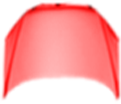
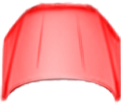
add gear info, change KM to km, change pic of hood open

diff --git a/qml/content/CentreInfo.qml b/qml/content/CentreInfo.qml
@@ -8,6 +8,8 @@ Rectangle {
     property real valueTrip: CarStatus.trip1 * 0.1
     property real valueTemp: CarStatus.outTemp
     property string valueTime: CarStatus.time
+    property int valueGear: CarStatus.gear
+    property int valueGearMode: CarStatus.gearMode
 
     // module dateTime
     Item {
@@ -80,12 +82,15 @@ Rectangle {
     Item {
         id: tripTotalMileage
 
-        Image {
+        Text {
             id: kMleft
             x: 723
-            y: 610
-            opacity: 1.0
-            source: "qrc:/images/images/tripTotalMileage/KMleft.png"
+            y: 601
+            color: "black"
+            font.pixelSize: 24
+            font.italic: true
+            text: "km"
+            font.family: fontName.fontCurrent
         }
         Text {
             id: numTrip
@@ -99,12 +104,15 @@ Rectangle {
             font.family: fontName.fontCurrent
         }
 
-        Image {
+        Text {
             id: kMright
             x: 1228
-            y: 610
-            opacity: 1.0
-            source: "qrc:/images/images/tripTotalMileage/KMright.png"
+            y: 601
+            color: "black"
+            font.pixelSize: 24
+            font.italic: true
+            text: "km"
+            font.family: fontName.fontCurrent
         }
         Text {
             id: numTotalMileage
@@ -124,6 +132,47 @@ Rectangle {
             y: 634
             opacity: 1.0
             source: "qrc:/images/images/tripTotalMileage/tripTotalMileageOut.png"
+        }
+    }
+
+    // module gear
+    Item {
+        id: gear
+
+        Image {
+            id: gearOutline
+            x: 839
+            y: 587
+            opacity: 1.0
+            source: "qrc:/images/images/gear/gearOutline.png"
+        }
+        Image {
+            id: gearD
+            x: 885
+            y: 535
+            opacity: valueGearMode == 0x01 ? 1.0 : 0.0
+            source: "qrc:/images/images/gear/gearD.png"
+        }
+        Image {
+            id: gearN
+            x: 884
+            y: 536
+            opacity: (valueGearMode == 0 && valueGear == 0x0e) ? 1.0 : 0.0
+            source: "qrc:/images/images/gear/gearN.png"
+        }
+        Image {
+            id: gearR
+            x: 887
+            y: 535
+            opacity: (valueGearMode == 0 && valueGear == 0x0f) ? 1.0 : 0.0
+            source: "qrc:/images/images/gear/gearR.png"
+        }
+        Image {
+            id: gearP
+            x: 888
+            y: 535
+            opacity: (valueGearMode == 0 && valueGear == 0) ? 1.0 : 0.0
+            source: "qrc:/images/images/gear/gearP.png"
         }
     }
 

diff --git a/qml/content/CarDoorPanel.qml b/qml/content/CarDoorPanel.qml
@@ -60,8 +60,8 @@ Rectangle {
         }
         Image {
             id: hoodOpen
-            x: 901
-            y: 226
+            x: 896
+            y: 225
             opacity: valueHood == 1 ? 1.0 : 0.0
             source: "qrc:/images/images/carDoorState/hoodOpen.png"
         }
